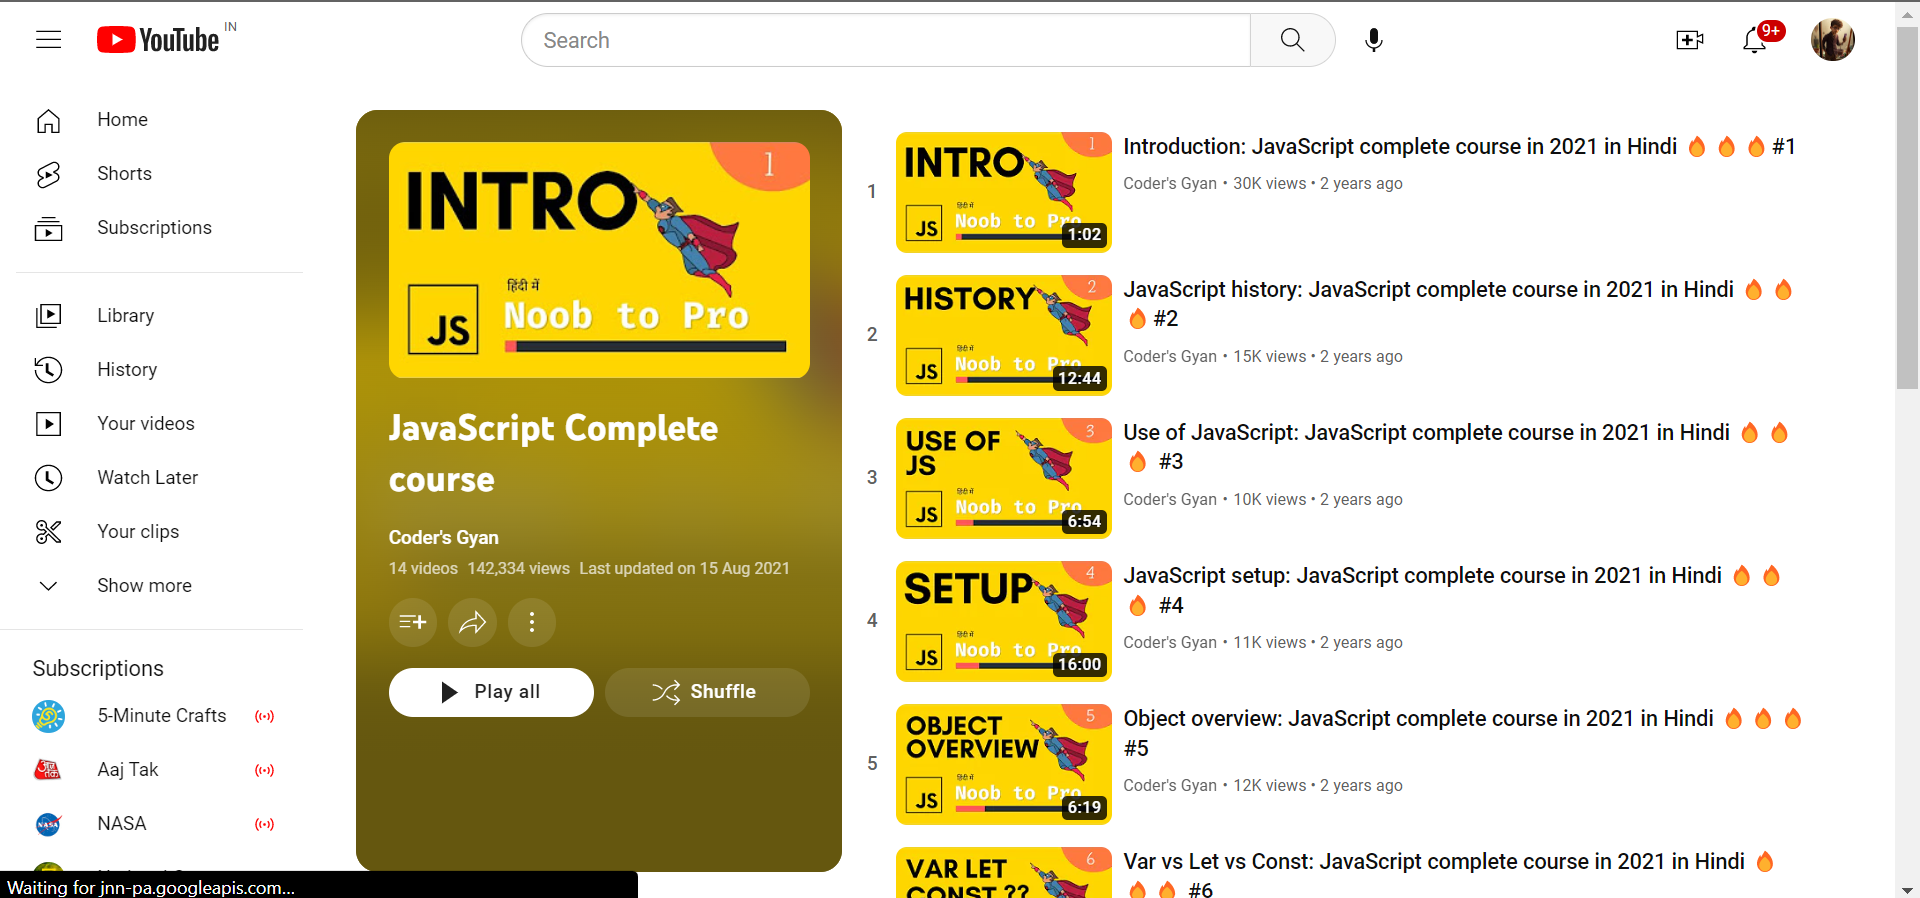
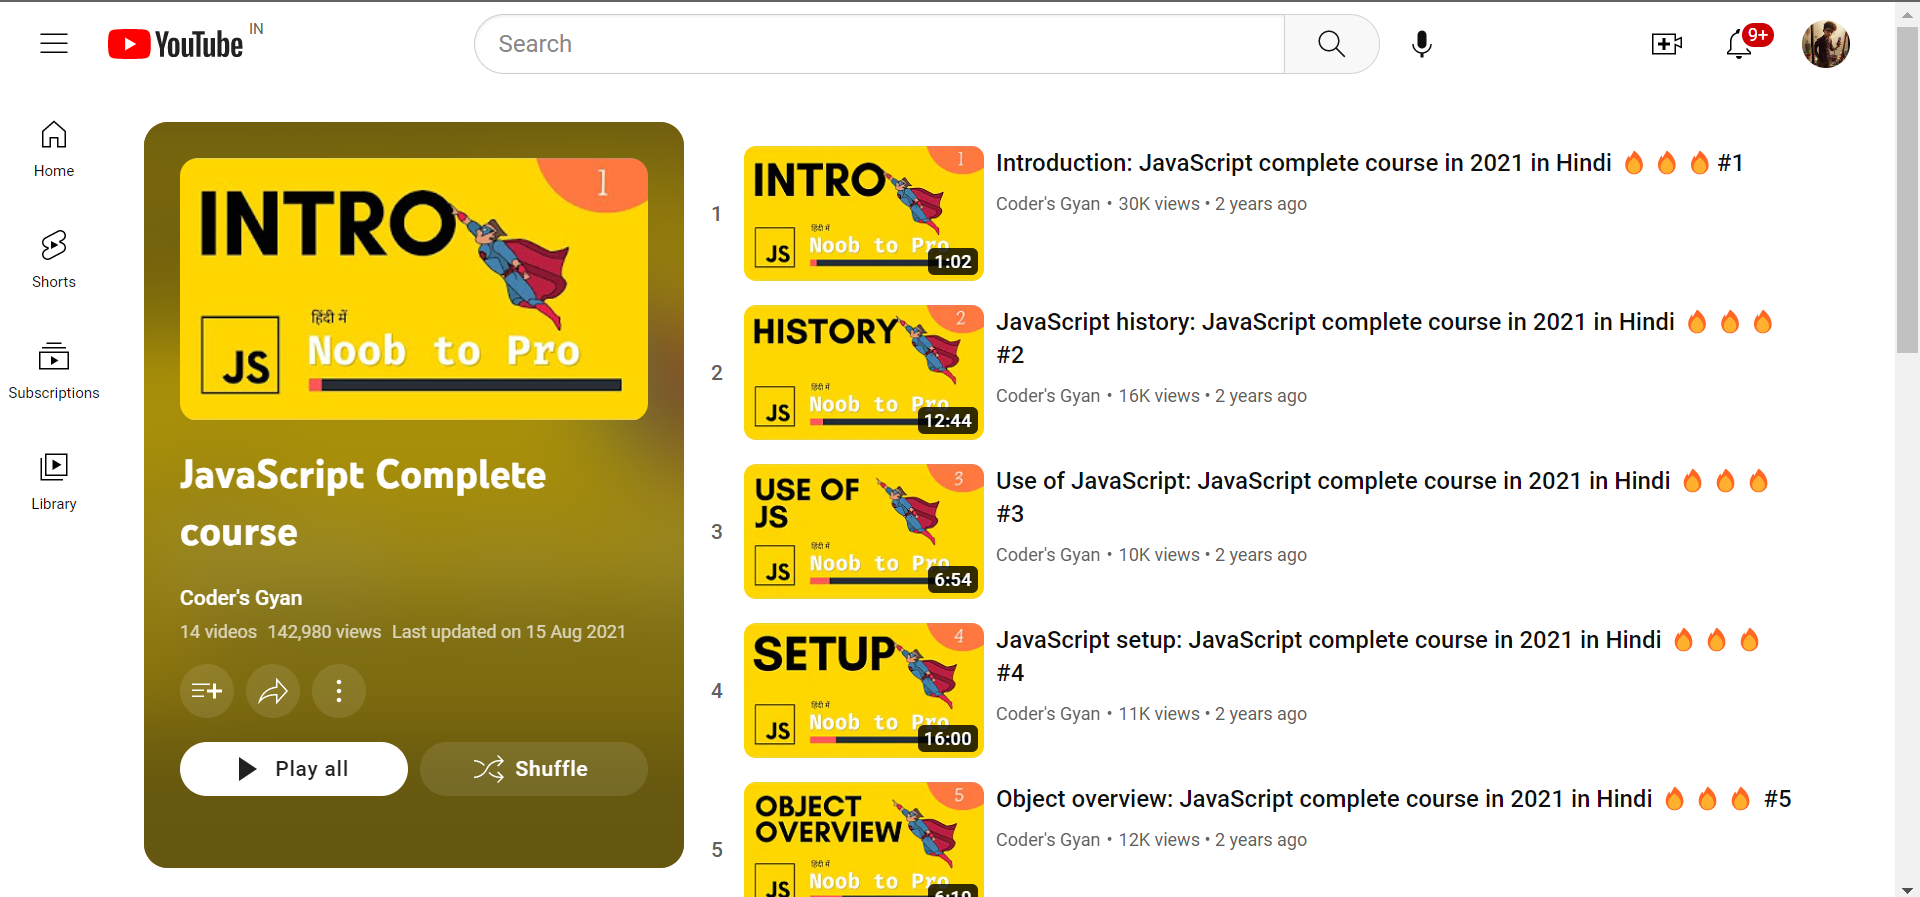
commit

diff --git a/clone.html b/clone.html
@@ -100,6 +100,204 @@
         <div class="main">
 
         </div>
+        </div> 
+        <div class="main">
+            <div class="playlistcard">
+                <img src="thumbnail.jpg" alt="" id="backimg">
+                <div class="thumbnail">
+                    <img src="thumbnail.jpg" alt="" style="
+                        height: 170px;
+                        width: 300px;
+                        position: absolute;
+                        top: 25%;
+                        left: 18%;
+                        z-index: 1;
+                        border-radius: 15px;
+                    ">
+                </div>
+                <div class="description">
+                    <div class="name">
+                        JavaScript Complete course
+                    </div>
+                    <div class="channel">
+                        Coder's Gyan
+                    </div>
+                    <div class="stats">
+                        14 videos 142,980 views Last updated on 15 Aug 2021
+                    </div>
+                </div>
+                <div class="threebuttons">
+                    <span class="material-symbols-outlined sharebutton">
+                        playlist_add
+                    </span>
+                    <span class="material-symbols-outlined sharebutton">
+                        share
+                    </span>
+                    <span class="material-symbols-outlined sharebutton">
+                        more_vert
+                    </span>
+                </div>
+                <div class="player">
+                    <span class="playall">
+                        <hey class="playbtn">
+                            <span class="material-symbols-outlined">
+                                play_arrow
+                            </span>
+                            Play all
+                        </hey>
+                    </span>
+                    <span class="shuffle">
+                        <hey class="shufflebtn">
+                            <span class="material-symbols-outlined">
+                                shuffle
+                            </span>
+                            Shuffle
+                        </hey>
+                    </span>
+                </div>
+            </div>
+            <div class="videos">
+                <div class="video">
+                    <div class="thumbnail"></div>
+                    <div class="title">
+                        <h3>Introduction: JavaScript Complete course in 2021 in Hindi 🔥🔥🔥 #1</h3>
+                    </div>
+                    <div class="description">
+                        <div class="channel">
+                            Coder's Gyan
+                        </div>
+                        <div class="stats">
+                            31k views • 2 years ago
+                        </div>
+                    </div>
+                </div>
+                <div class="video">
+                    <div class="thumbnail"></div>
+                    <div class="title">
+                        <h3>JavaScript History: JavaScript Complete course in 2021 in Hindi 🔥🔥🔥 #2</h3>
+                    </div>
+                    <div class="description">
+                        <div class="channel">
+                            Coder's Gyan
+                        </div>
+                        <div class="stats">
+                            16k views • 2 years ago
+                        </div>
+                    </div>
+                </div>
+                <div class="video">
+                    <div class="thumbnail"></div>
+                    <div class="title">
+                        <h3>Use of JavaScript: JavaScript Complete course in 2021 in Hindi 🔥🔥🔥 #3</h3>
+                    </div>
+                    <div class="description">
+                        <div class="channel">
+                            Coder's Gyan
+                        </div>
+                        <div class="stats">
+                            9k views • 2 years ago
+                        </div>
+                    </div>
+                </div>
+                <div class="video">
+                    <div class="thumbnail"></div>
+                    <div class="title">
+                        <h3>JavaScript Setup: JavaScript Complete course in 2021 in Hindi 🔥🔥🔥 #4</h3>
+                    </div>
+                    <div class="description">
+                        <div class="channel">
+                            Coder's Gyan
+                        </div>
+                        <div class="stats">
+                            11k views • 2 years ago
+                        </div>
+                    </div>
+                </div>
+                <div class="video">
+                    <div class="thumbnail"></div>
+                    <div class="title">
+                        <h3>Object overview: JavaScript Complete course in 2021 in Hindi 🔥🔥🔥 #5</h3>
+                    </div>
+                    <div class="description">
+                        <div class="channel">
+                            Coder's Gyan
+                        </div>
+                        <div class="stats">
+                            12k views • 2 years ago
+                        </div>
+                    </div>
+                </div>
+                <div class="video">
+                    <div class="thumbnail"></div>
+                    <div class="title">
+                        <h3>Var vs Let  vs Const: JavaScript Complete course in 2021 in Hindi 🔥🔥🔥 #6</h3>
+                    </div>
+                    <div class="description">
+                        <div class="channel">
+                            Coder's Gyan
+                        </div>
+                        <div class="stats">
+                            13k views • 2 years ago
+                        </div>
+                    </div>
+                </div>
+                <div class="video">
+                    <div class="thumbnail"></div>
+                    <div class="title">
+                        <h3>Data types: JavaScript Complete course in 2021 in Hindi 🔥🔥🔥 #7</h3>
+                    </div>
+                    <div class="description">
+                        <div class="channel">
+                            Coder's Gyan
+                        </div>
+                        <div class="stats">
+                            14k views • 2 years ago
+                        </div>
+                    </div>
+                </div>
+                <div class="video">
+                    <div class="thumbnail"></div>
+                    <div class="title">
+                        <h3>Operators: JavaScript Complete course in 2021 in Hindi 🔥🔥🔥 #8</h3>
+                    </div>
+                    <div class="description">
+                        <div class="channel">
+                            Coder's Gyan
+                        </div>
+                        <div class="stats">
+                            15k views • 2 years ago
+                        </div>
+                    </div>
+                </div>
+                <div class="video">
+                    <div class="thumbnail"></div>
+                    <div class="title">
+                        <h3>Arrays: JavaScript Complete course in 2021 in Hindi 🔥🔥🔥 #9</h3>
+                    </div>
+                    <div class="description">
+                        <div class="channel">
+                            Coder's Gyan
+                        </div>
+                        <div class="stats">
+                            16k views • 2 years ago
+                        </div>
+                    </div>
+                </div>
+                <div class="video">
+                    <div class="thumbnail"></div>
+                    <div class="title">
+                        <h3>Functions: JavaScript Complete course in 2021 in Hindi 🔥🔥🔥 #10</h3>
+                    </div>
+                    <div class="description">
+                        <div class="channel">
+                            Coder's Gyan
+                        </div>
+                        <div class="stats">
+                            17k views • 2 years ago
+                        </div>
+                    </div>
+                </div>
+            </div>
         </div>
     </div>
     <script src="clone.js"></script>

diff --git a/clone.css b/clone.css
@@ -1,5 +1,8 @@
 @import url('https://fonts.googleapis.com/css2?family=Nunito&display=swap');
 @import url('https://fonts.googleapis.com/css2?family=Teko:wght@600&display=swap');
+@import url('https://fonts.googleapis.com/css2?family=Fira+Sans:wght@600&display=swap');
+@import url('https://fonts.googleapis.com/css2?family=Fira+Sans:wght@200&display=swap');
+@import url('https://fonts.googleapis.com/css2?family=Anuphan&display=swap');
 body{
     margin: 0;
     padding: 0;
@@ -43,4 +46,121 @@ body{
     border-radius: 50%;
     cursor: pointer;
     background-color: rgb(215, 215, 215);
+}
+.main{
+    position: fixed;
+    left: 8%;
+    top: 14%;
+    height : 86vh;
+    width: 92vw;
+    overflow: hidden;
+    background-color: #f2f2f2;
+}
+.playlistcard{
+    position: fixed;
+    left: 8%;
+    background-repeat: initial;
+    border-radius: 20px;
+    height: 80vh;
+    width: 28vw;
+    border-radius: 20px;
+    overflow: hidden;
+    background-color: rgba(0, 0, 0, 0.646);
+}
+.playlistcard #backimg{
+    height: 100%;
+    width: 100%;
+    object-fit: cover;
+    filter: blur(50px);
+    z-index: -1;
+}
+.thumbnail{
+    position: fixed;
+    left: 8%;
+    top: 30px;
+    height: 20em;
+    width: 10em;
+    object-fit: cover;
+    z-index: 1;
+}
+.name{
+    position: fixed;
+    left: 10.7%;
+    top: 12em;
+    width: 10em;
+    font-size: 26px;
+    color: white;
+    font-weight: bolder;
+    font-family: 'Fira Sans', sans-serif;
+}
+.channel{
+    /* z-index: 1; */
+    position: fixed;
+    left: 10.7%;
+    top: 24em;
+    width: 10em;
+    font-size: 16px;
+    font-weight: lighter;
+    color: rgb(255, 255, 255);
+    font-family: 'Fira Sans', sans-serif;
+}
+.stats{
+    position: fixed;
+    left: 10.7%;
+    top: 34em;
+    width: 28em;
+    font-size: 12px;
+    font-weight: lighter;
+    color: rgb(238, 234, 234);
+    font-family: 'Fira Sans', sans-serif;
+}
+.threebuttons{
+    color: #f2f2f2;
+    display: flex;
+    flex-direction: row;
+    position: fixed;
+    left: 10.5%;
+    top: 26.8em;
+    width: 8em;
+    justify-content: space-evenly;
+}
+.sharebutton{
+    padding: 6px;
+    display: flex;
+    height: 25px;
+    width: 25px;
+    border-radius: 50%;
+    background-color: #d0d0d070;
+    cursor: pointer;
+}
+.sharebutton:hover{
+    background-color: #e7e6e66e;
+}
+.player{
+    display: flex;
+    flex-direction: row;
+    justify-content: space-evenly;
+    position: fixed;
+    left: 7.5%;
+    top: 30em;
+    width: 20em;
+    border-radius: 20px;
+}
+.shufflebtn, .playbtn{
+    font-size: 14px;
+    height: 50px;
+    width: 20em;
+    border-radius: 20px;
+    background-color: #d0d0d070;
+    cursor: pointer;
+    padding-left: 20px;
+    padding-right: 20px;
+    padding-top: 8px;
+    font-family: 'Anuphan', sans-serif;
+    padding-bottom: 8px;
+}
+
+.playbtn{
+    color: black;
+    background-color: white;
 }
